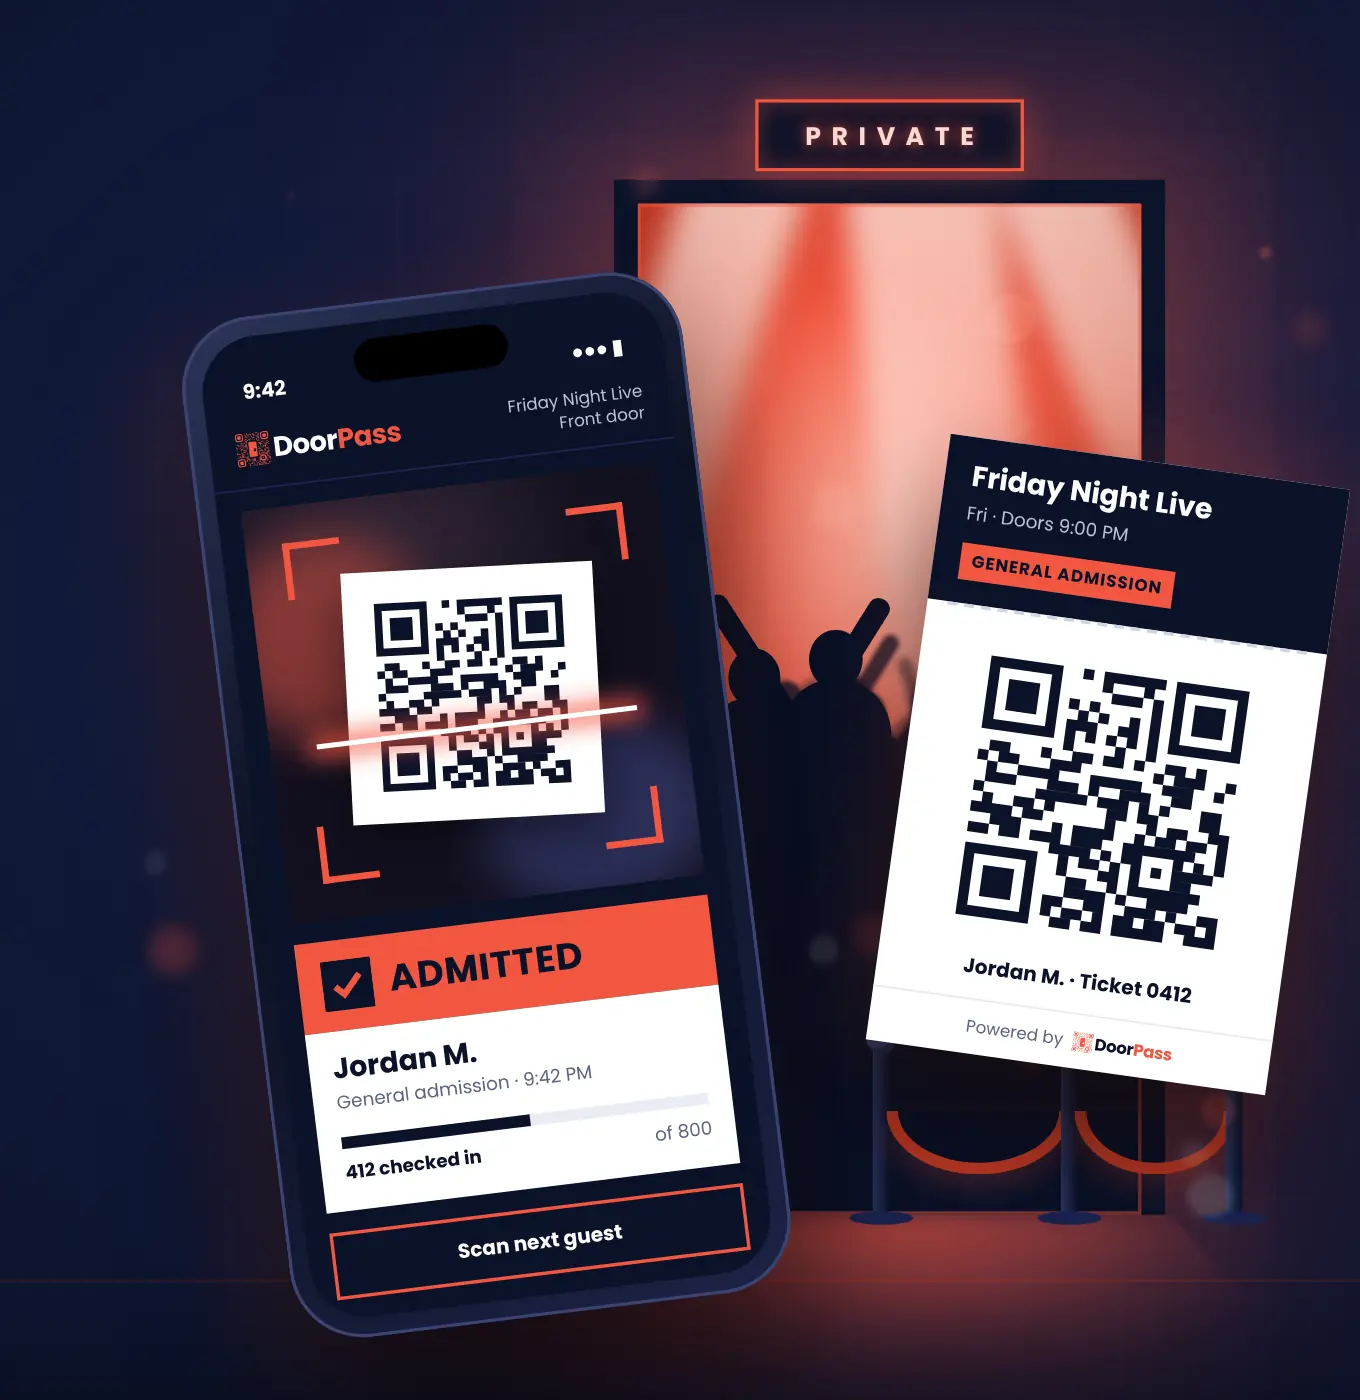
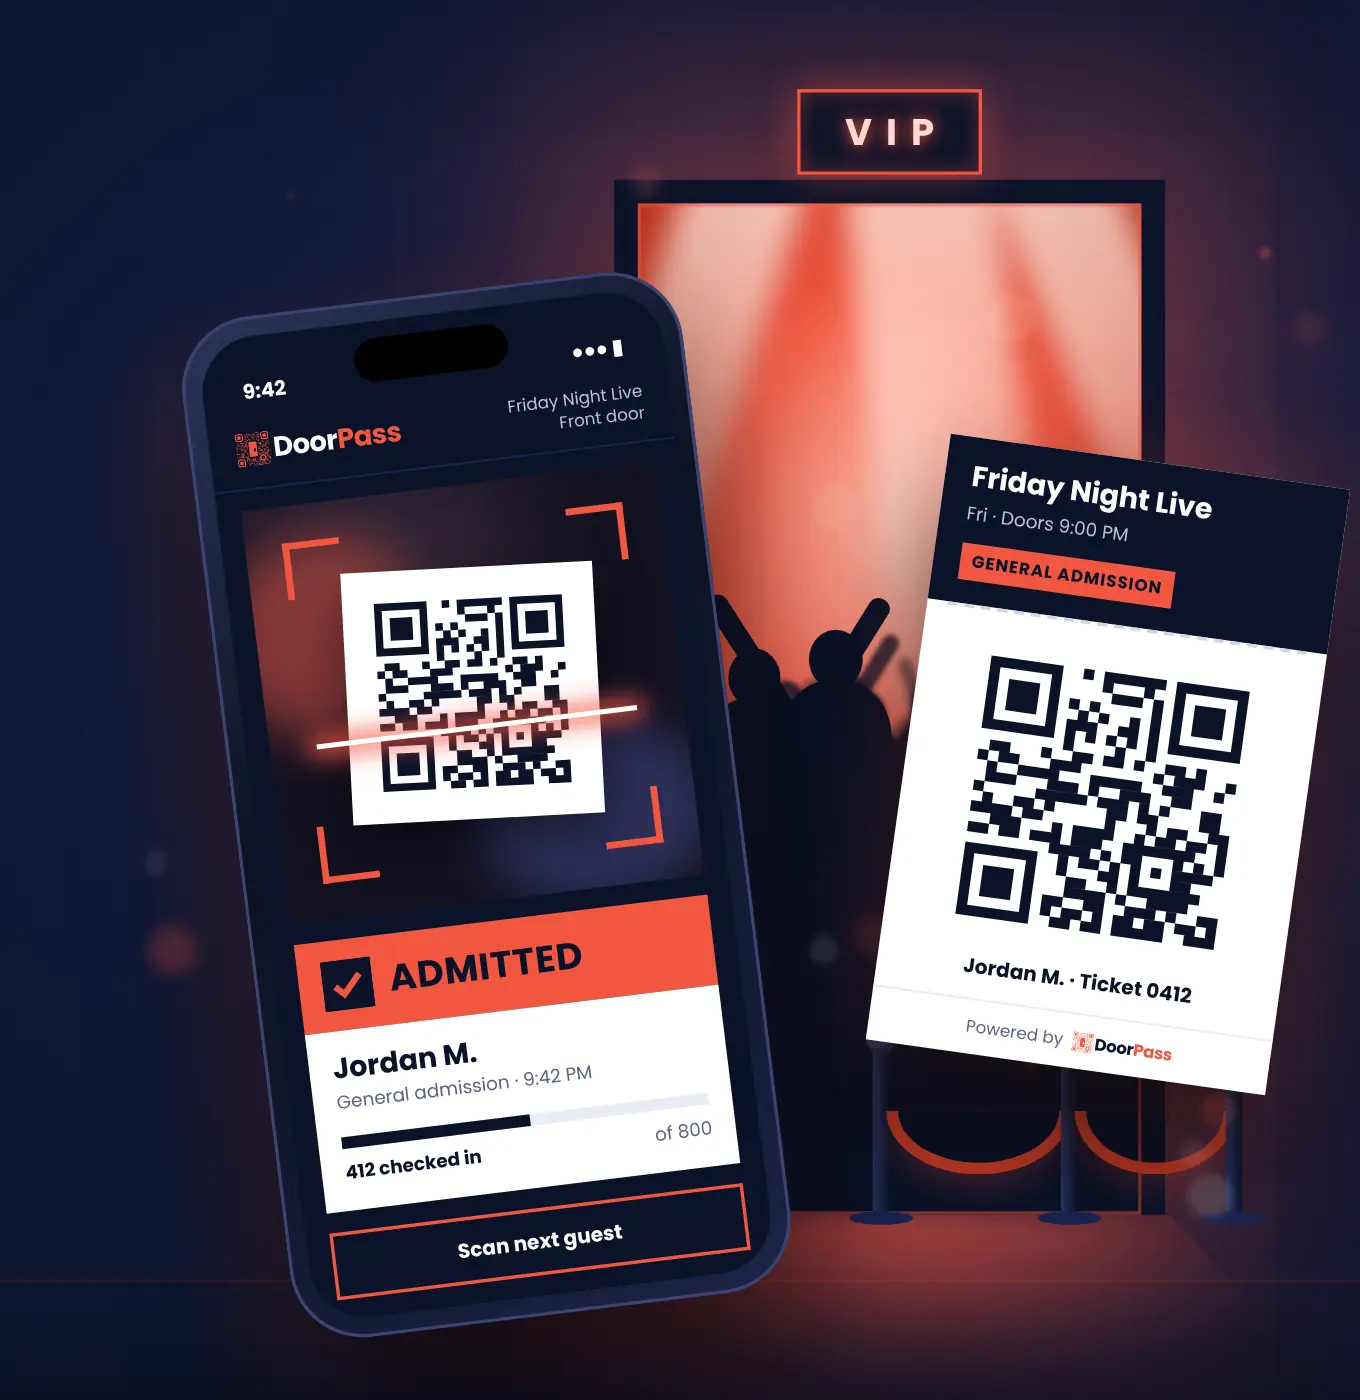
Hero: VIP sign, soften the image's left edge on wide screens
Claude-Session: https://claude.ai/code/session_01M7Asd6NsJf8wV6D7F685uX

Changed region(s): [[0.525, 0.0614, 0.7721, 0.1229]]

diff --git a/public/index.html b/public/index.html
@@ -47,7 +47,7 @@
     <div class="hero-art">
       <picture>
         <source media="(min-width: 60rem)" srcset="/assets/hero/hero-1440.webp 1440w, /assets/hero/hero-2880.webp 2880w" sizes="100vw" width="2880" height="1600">
-        <img src="/assets/hero/hero-mobile-680.webp" srcset="/assets/hero/hero-mobile-680.webp 680w, /assets/hero/hero-mobile-1360.webp 1360w" sizes="(min-width: 60rem) 100vw, 92vw" width="1360" height="1400" fetchpriority="high" decoding="async" alt="A door staff phone running the DoorPass scanner shows Admitted for Jordan M., General admission at 9:42 PM, 412 of 800 checked in, next to the guest's emailed QR ticket and a venue door opening onto the crowd.">
+        <img src="/assets/hero/hero-mobile-680.webp" srcset="/assets/hero/hero-mobile-680.webp 680w, /assets/hero/hero-mobile-1360.webp 1360w" sizes="(min-width: 60rem) 100vw, 92vw" width="1360" height="1400" fetchpriority="high" decoding="async" alt="A door staff phone running the DoorPass scanner shows Admitted for Jordan M., General admission at 9:42 PM, 412 of 800 checked in, next to the guest's emailed QR ticket and a VIP door with a velvet rope, opening onto the crowd.">
       </picture>
       <div class="fx" aria-hidden="true"><div class="fx-door"><i></i><i></i><i></i></div><b class="fx-sign"></b><b class="fx-spill"></b><b class="fx-t"></b><b class="fx-t"></b><b class="fx-t"></b><b class="fx-t"></b><b class="fx-t"></b><b class="fx-t"></b></div>
     </div>

diff --git a/public/css/styles.css b/public/css/styles.css
@@ -78,6 +78,7 @@ ul, ol { margin: 0; padding: 0; list-style: none; }
   .hero-art { position: absolute; inset: 0; width: 100%; height: 100%; container-type: size; }
   .hero-art picture { height: 100%; }
   .hero-art img { width: 100%; height: 100%; object-fit: contain; object-position: right center; -webkit-mask-image: none; mask-image: none; }
+  .hero-art picture { -webkit-mask-image: linear-gradient(90deg, transparent, var(--navy) 18%); mask-image: linear-gradient(90deg, transparent, var(--navy) 18%); }
   .fx { left: auto; right: 0; top: 50%; width: min(100cqw, 180cqh); height: auto; aspect-ratio: 9 / 5; translate: 0 -50%; }
 }
 .fx > * { position: absolute; display: block; }
